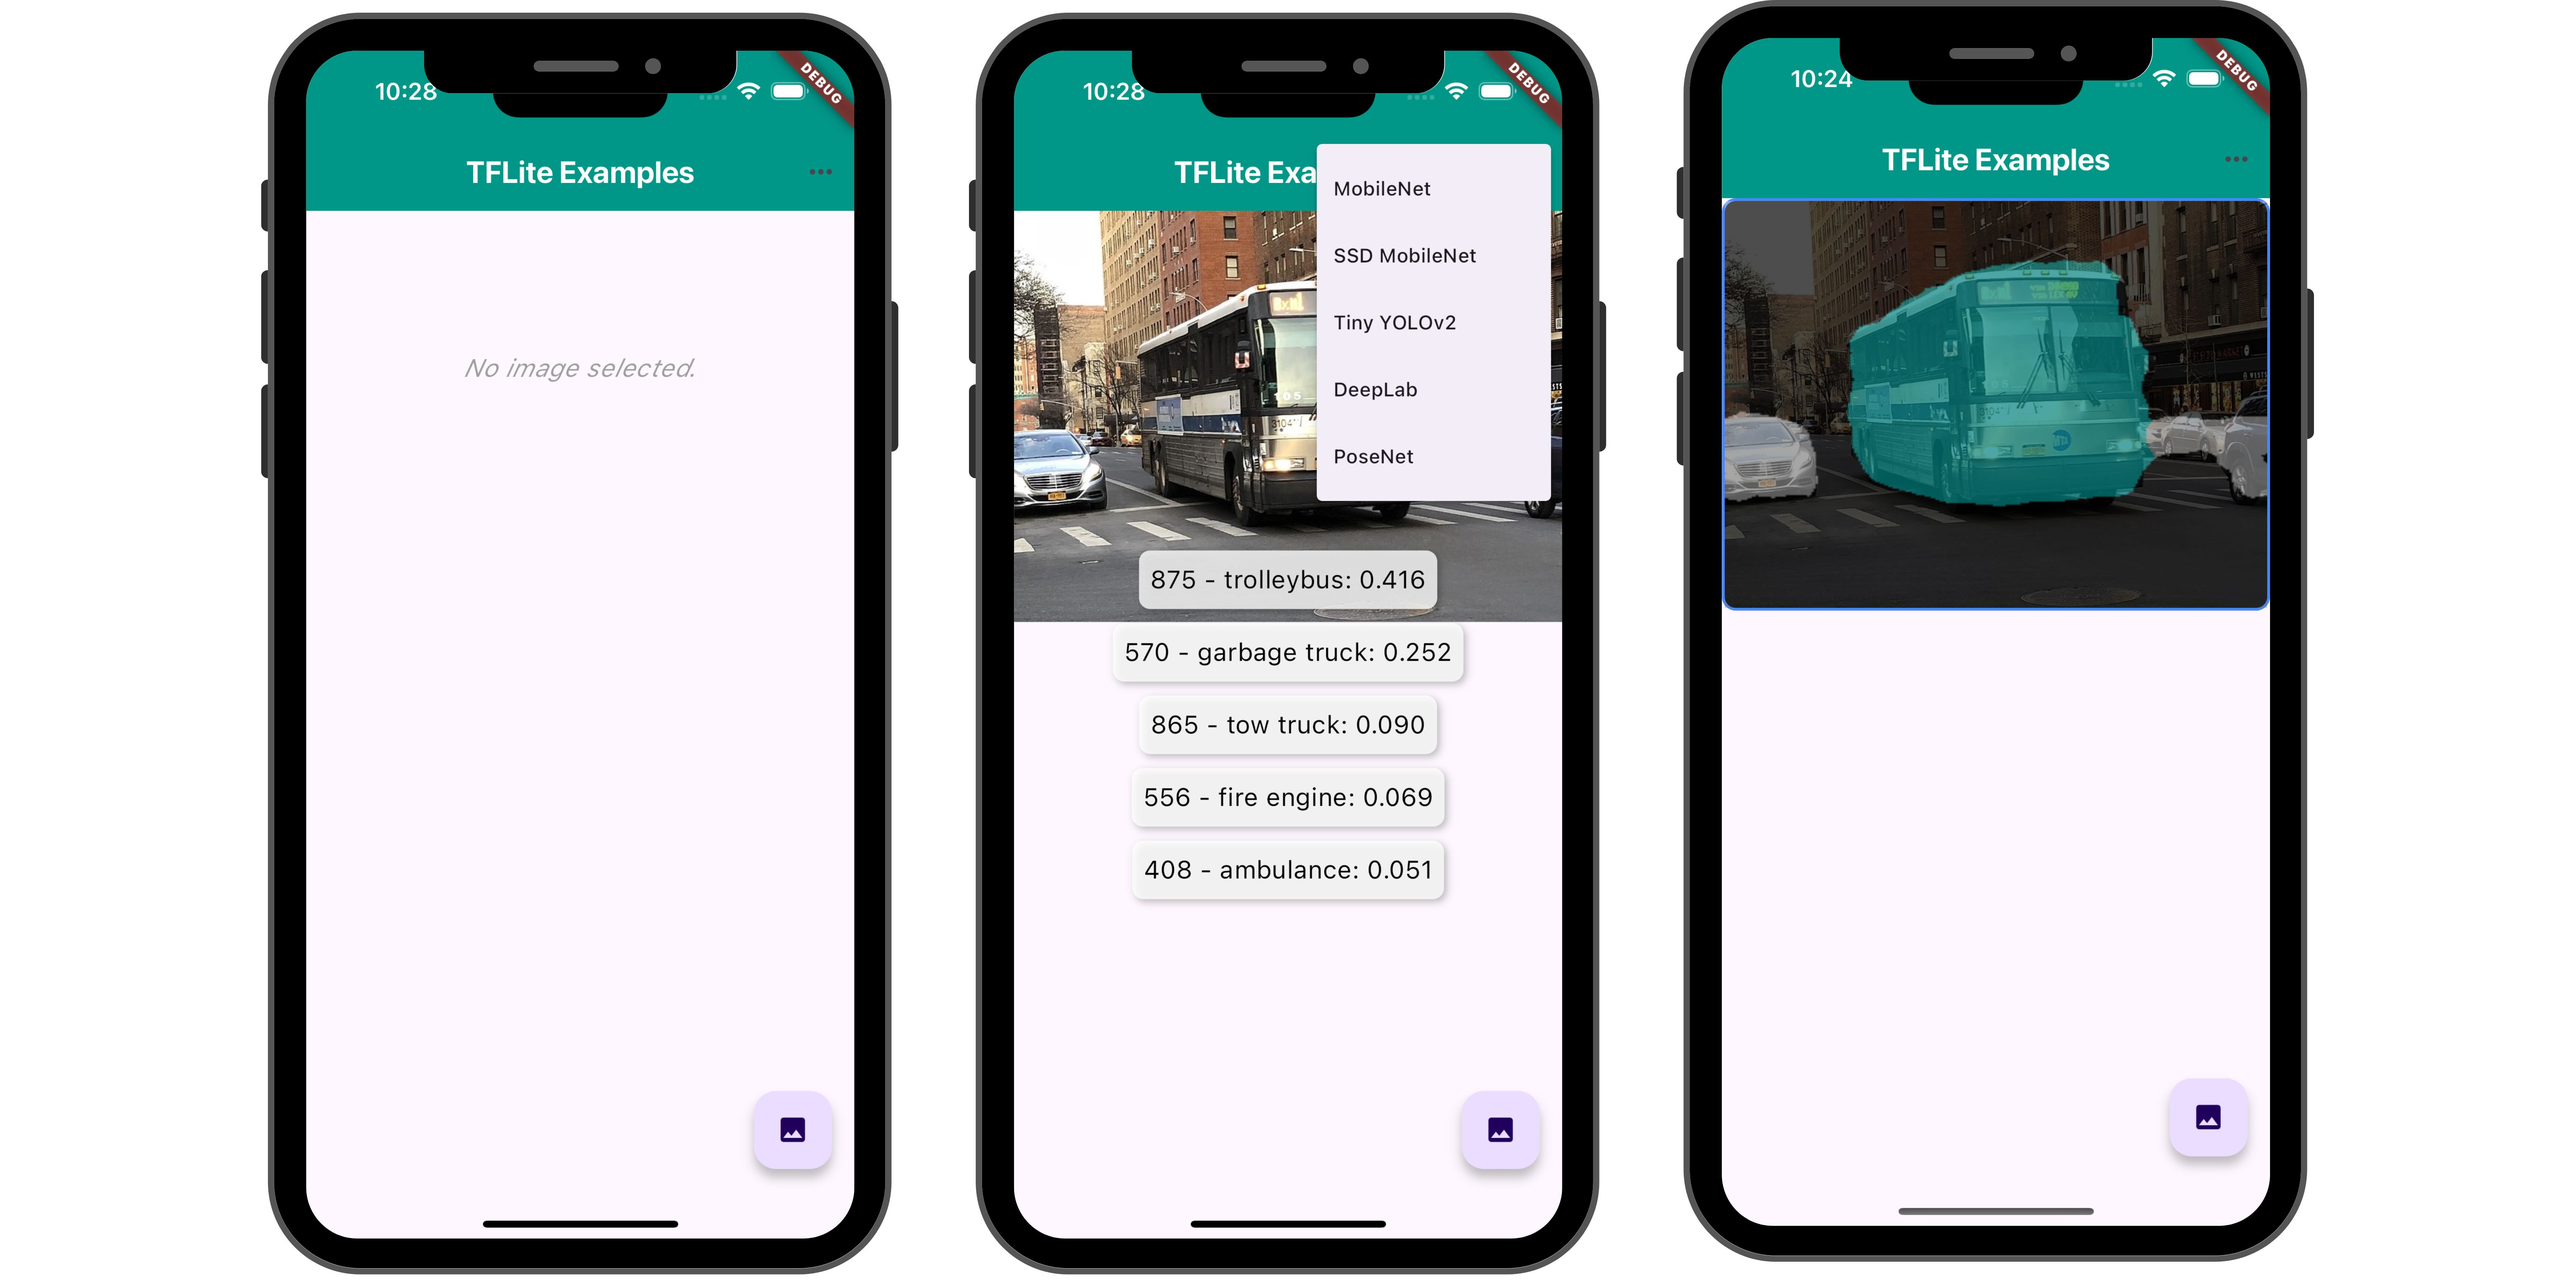
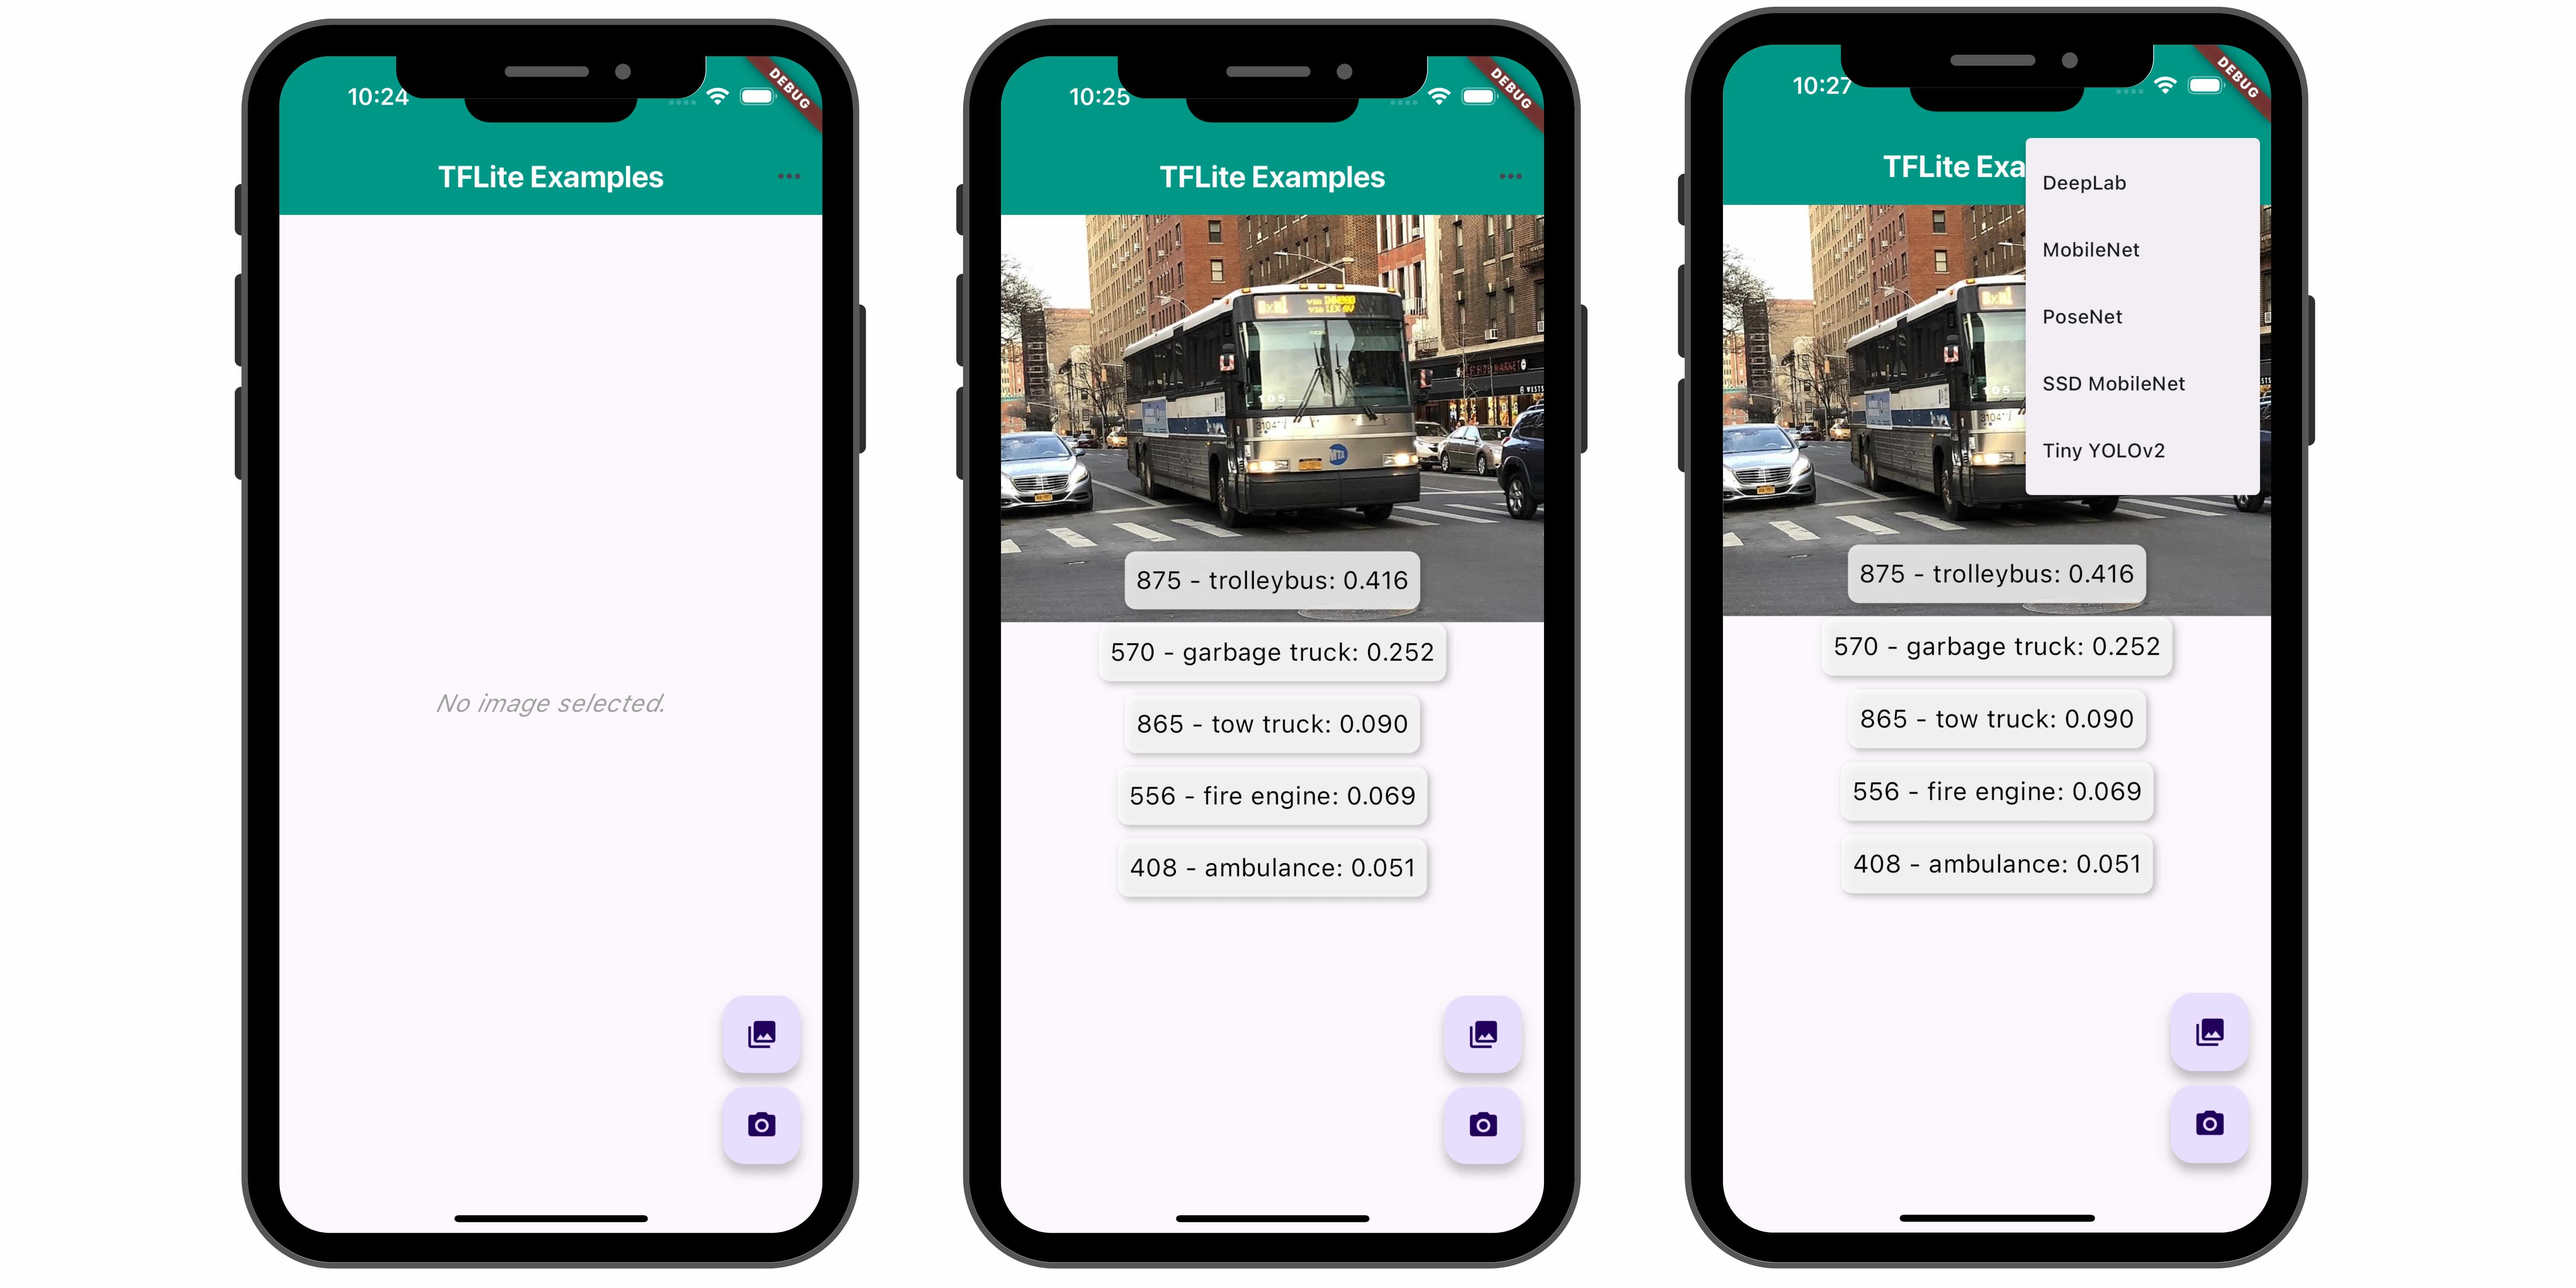
added camera source

diff --git a/example/lib/main.dart b/example/lib/main.dart
@@ -486,6 +486,16 @@ class _MyAppState extends State<MyApp> {
     );
   }
 
+  // Method to capture image from the camera
+Future predictImageCamera() async {
+  var image = await ImagePicker().pickImage(source: ImageSource.camera);
+  if (image == null) return;
+  setState(() {
+    _busy = true;
+  });
+  predictImage(File(image.path));
+}
+
     return Scaffold(
       appBar: AppBar(
         title: Text(
@@ -531,14 +541,27 @@ class _MyAppState extends State<MyApp> {
           )
         ],
       ),
-      body: Stack(
+      body: _busy
+        ? Center(child: CircularProgressIndicator())
+        : Stack(
         children: stackChildren,
       ),
-      floatingActionButton: FloatingActionButton(
-        onPressed: predictImagePicker,
-        tooltip: 'Pick Image',
-        child: Icon(Icons.image),
-      ),
+      floatingActionButton: Column(
+      mainAxisAlignment: MainAxisAlignment.end,
+      children: [
+        FloatingActionButton(
+          onPressed: predictImagePicker, // Existing method for gallery picker
+          tooltip: 'Pick Image from Gallery',
+          child: Icon(Icons.photo_library),
+        ),
+        SizedBox(height: 10),
+        FloatingActionButton(
+          onPressed: predictImageCamera, // New method for camera capture
+          tooltip: 'Capture Image with Camera',
+          child: Icon(Icons.camera_alt),
+        ),
+      ],
+    ),
     );
   }
 }
